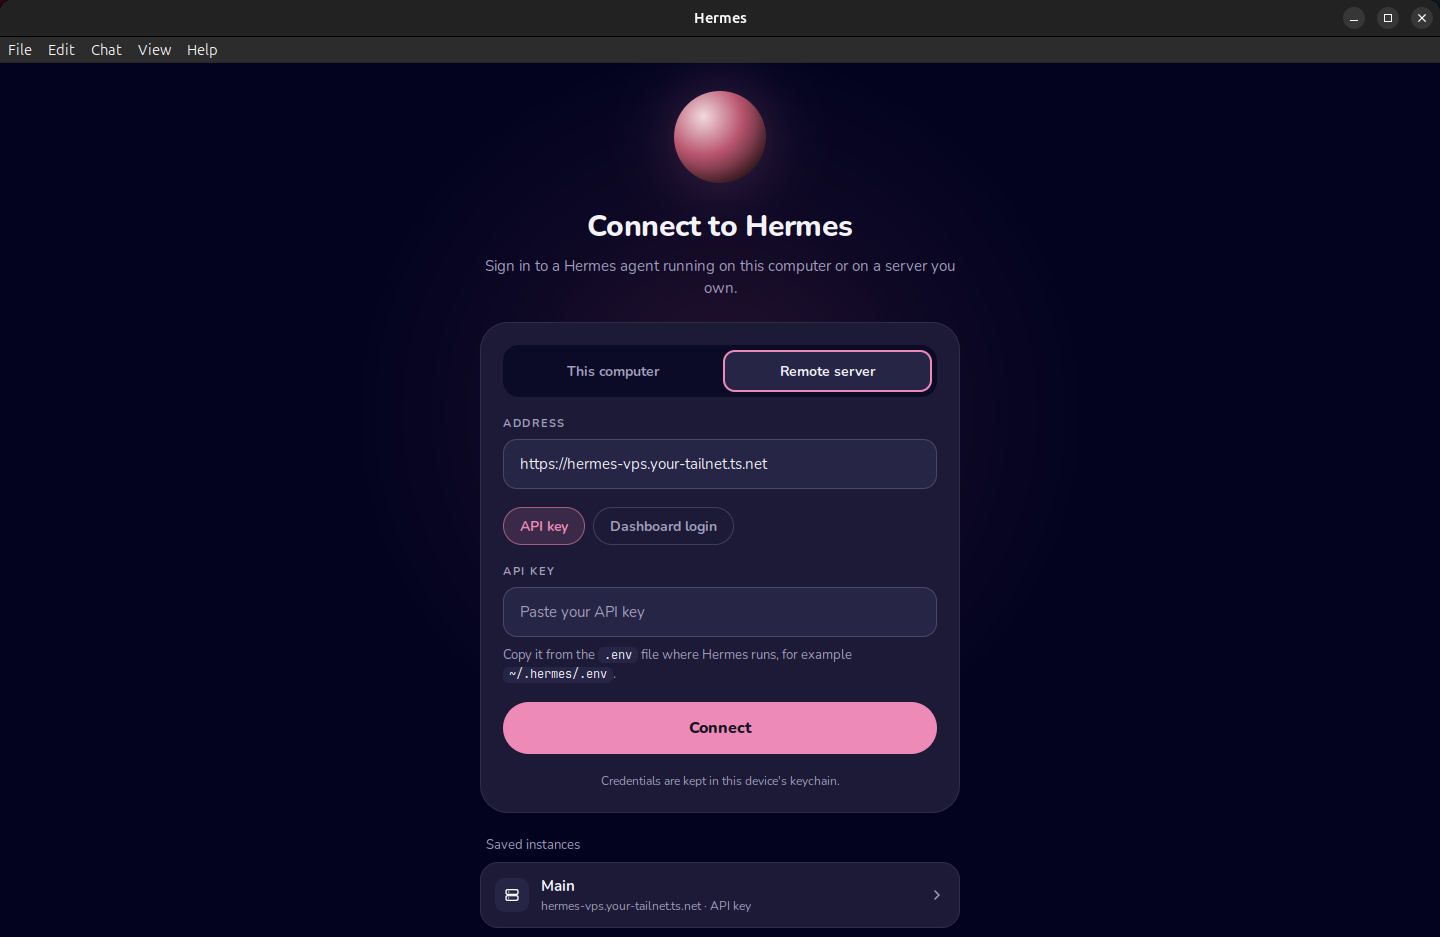
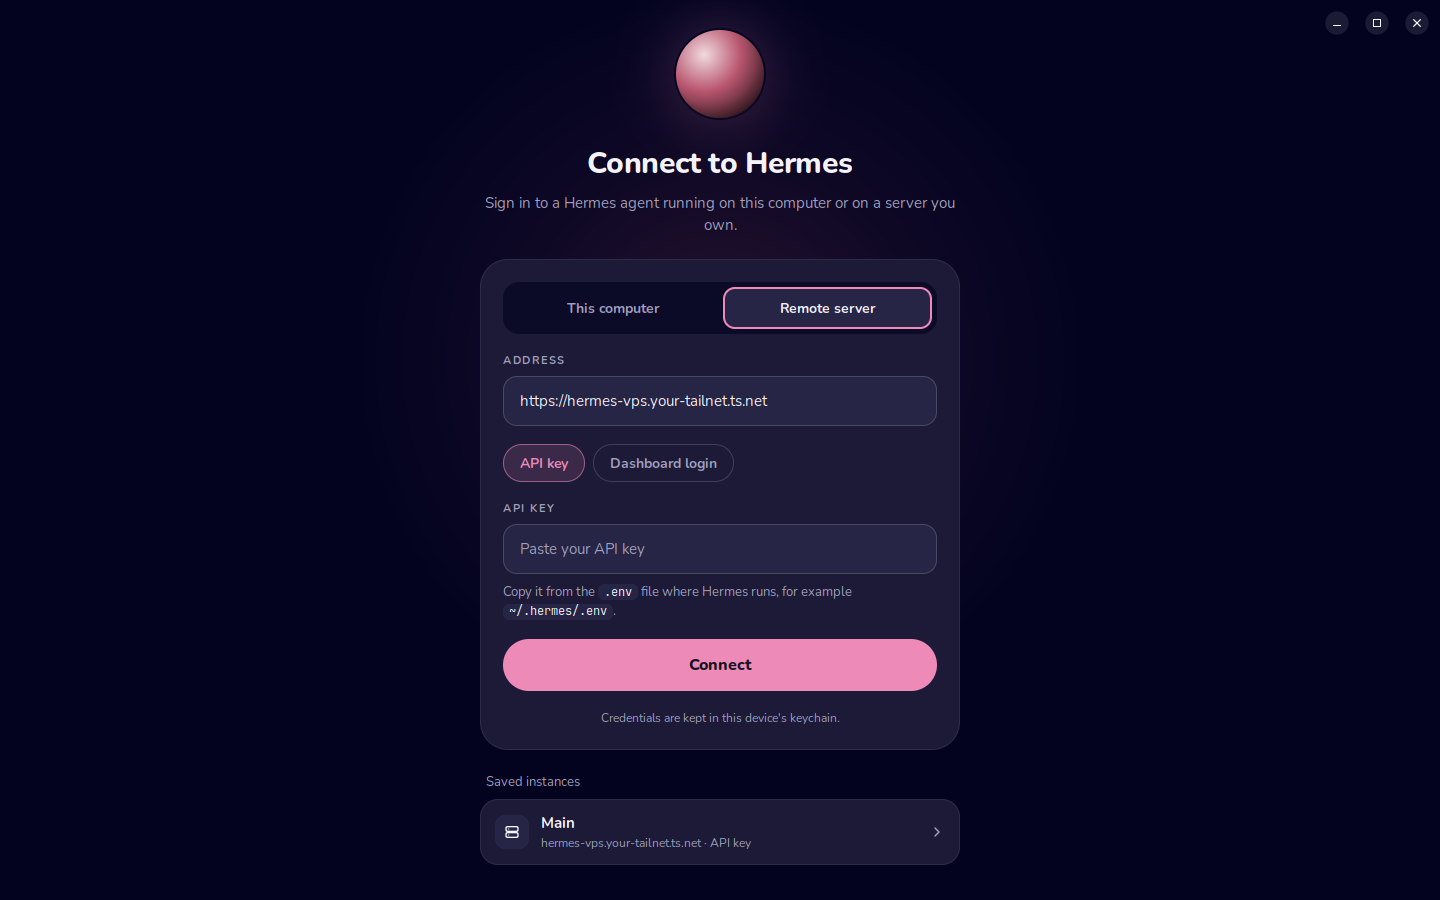
Draw the title bar on Linux and Windows too; hide the menu bar
The window menu bar under the system title bar was a second, unthemed
strip the design does not have. Linux and Windows now use a hidden title
bar, as macOS does: the app's header and sidebar row are the title bar,
the system's window buttons sit in it, and the menus open with Alt or F10
(their shortcuts work all along). Fonts now register one by one, so one
failure no longer drops the rest. README screenshots retaken on GNOME.

Changed region(s): [[0.0, 0.0, 1.0, 0.9956]]

diff --git a/internal/views/settingsview.go b/internal/views/settingsview.go
@@ -26,7 +26,8 @@ var settingsPanes = []struct{ name, icon string }{
 func (u *UI) settingsView(c *ui.Context) {
 	pal := &u.pal
 	ui.Column(c).Fill().Background(pal.Bg).Children(func() {
-		ui.Row(c).Height(56).FillWidth().Padding(0, 22).AlignItems(ui.Center).BorderWidth(0, 0, 1, 0).BorderColor(pal.Line).DragWindow().Children(func() {
+		bar := c.TitleBar()
+		ui.Row(c).Height(max(56, bar.Height)).FillWidth().Padding(0, max(22, bar.Right+12), 0, max(22, bar.Left+12)).AlignItems(ui.Center).BorderWidth(0, 0, 1, 0).BorderColor(pal.Line).DragWindow().Children(func() {
 			ui.Text(c, "Settings").FontSize(14).FontWeight(700).TextColor(pal.Muted).Grow(1).TextAlign(ui.Center)
 		})
 		ui.Row(c).Grow(1).FillWidth().AlignItems(ui.Stretch).Children(func() {
@@ -515,6 +516,9 @@ func (u *UI) generalPane(c *ui.Context) {
 			u.SetSettings(n)
 		})
 		u.note(c, "Link cards in replies show the page's title, fetched once, without cookies.")
+		if u.Native != nil && u.Native.Platform() != "darwin" {
+			u.note(c, "Menus: press Alt or F10 to open File, Edit, Chat, View and Help.")
+		}
 		u.note(c, "Keyboard: ⌘/Ctrl+1–9 jumps to the chats in the sidebar (hold the key to see their numbers), ⌘/Ctrl+N starts a chat, ⌘/Ctrl+K searches, ⌘/Ctrl+, opens settings and Esc stops a running agent.")
 	}).FillWidth()
 }

diff --git a/internal/views/views_test.go b/internal/views/views_test.go
@@ -530,3 +530,25 @@ func TestF2RenamesOpenChat(t *testing.T) {
 	h.tt.Key(0, ui.KeyEnter)
 	h.settle("renamed", func() bool { r := h.srv.SessionRow(id); return r != nil && r["title"] == "Greetings" })
 }
+
+// With a hidden title bar the header is the title bar: its buttons keep
+// clear of the system's window buttons.
+func TestHeaderClearsWindowButtons(t *testing.T) {
+	h := newHarness(t, hermestest.Options{}, true)
+	h.synced()
+	h.tt.SetTitleBar(ui.TitleBar{Height: 40, Right: 130, Bottom: 40})
+	h.u.Select("20261122_060000_0a0b0c")
+	h.settle("chat", func() bool { return h.tt.HasText("Hey! What can I help with?") })
+	more, ok := h.tt.Access("More")
+	if !ok {
+		t.Fatal("the More button is labelled")
+	}
+	if right := more.Bounds.X + more.Bounds.W; right > 1440-130 {
+		t.Fatalf("More ends at %v, under the window buttons (from %v)", right, 1440-130)
+	}
+	h.u.Screen = ScreenSettings
+	h.tt.Frame()
+	if !h.tt.HasText("Settings") {
+		t.Fatal("settings title bar")
+	}
+}

diff --git a/internal/views/chat.go b/internal/views/chat.go
@@ -230,7 +230,10 @@ func (u *UI) chatView(c *ui.Context, conn *core.Connection, ch *core.Chat) {
 
 func (u *UI) chatHeader(c *ui.Context, conn *core.Connection, ch *core.Chat, s hermes.Session, prof hermes.Profile) {
 	pal := &u.pal
-	ui.Grid(c).ColumnTracks(ui.Fr(1), ui.FitContent(), ui.Fr(1)).AlignItems(ui.Center).Padding(14, 20, 6, 20).DragWindow().Children(func() {
+	// The header is the window's title bar: it drags the window and keeps
+	// clear of the system's window buttons (top right on Linux and Windows).
+	bar := c.TitleBar()
+	ui.Grid(c).ColumnTracks(ui.Fr(1), ui.FitContent(), ui.Fr(1)).AlignItems(ui.Center).Padding(14, max(20, bar.Right+12), 6, 20).DragWindow().Children(func() {
 		ui.Box(c)
 		pill := ui.Row(c).Gap(10).Padding(7, 18, 7, 8).Radius(999).Background(pal.Surf).Border(1, pal.Line).
 			Shadow(0, 8, 24, 0, ui.RGBA(0, 0, 0, 0.25)).AlignItems(ui.Center).MaxWidth(520).MinWidth(0)

diff --git a/internal/theme/fonts.go b/internal/theme/fonts.go
@@ -2,6 +2,7 @@ package theme
 
 import (
 	"embed"
+	"errors"
 	"fmt"
 	"strings"
 	"sync"
@@ -24,22 +25,24 @@ func RegisterFonts() error {
 			registerErr = err
 			return
 		}
+		// Each face on its own: one that fails leaves the others in use.
+		var errs []error
 		for _, e := range entries {
 			name := e.Name()
 			data, err := fontFiles.ReadFile("fonts/" + name)
 			if err != nil {
-				registerErr = err
-				return
+				errs = append(errs, err)
+				continue
 			}
 			family := "Nunito"
 			if strings.HasPrefix(name, "JetBrainsMono") {
 				family = "JetBrains Mono"
 			}
 			if err := ui.RegisterFont(data, family); err != nil {
-				registerErr = fmt.Errorf("register %s: %w", name, err)
-				return
+				errs = append(errs, fmt.Errorf("register %s: %w", name, err))
 			}
 		}
+		registerErr = errors.Join(errs...)
 	})
 	return registerErr
 }

diff --git a/internal/views/sidebar.go b/internal/views/sidebar.go
@@ -215,7 +215,10 @@ func (u *UI) sidebarView(c *ui.Context, conn *core.Connection) {
 	}
 	side.Children(func() {
 		// Title row: room for the traffic lights on macOS, then the buttons.
-		top := ui.Row(c).Height(44).Padding(0, 4).AlignItems(ui.Center).DragWindow()
+		// Room for window buttons on the left (macOS's traffic lights, or a
+		// Linux desktop that puts them there); the row drags the window.
+		bar := c.TitleBar()
+		top := ui.Row(c).Height(max(44, bar.Bottom-14+8)).Padding(0, 4, 0, max(4, bar.Left-14)).AlignItems(ui.Center).DragWindow()
 		top.Children(func() {
 			ui.Spacer(c)
 			ui.Row(c).Gap(8).Children(func() {

diff --git a/cmd/hermes-desktop/main.go b/cmd/hermes-desktop/main.go
@@ -204,6 +204,12 @@ func main() {
 			if s.TranslucentSidebar {
 				opts.Vibrancy = mygo.VibrancySidebar
 			}
+		} else {
+			// The app draws its own title bar, as the design does, with the
+			// system's window buttons in it. The menu bar stays a real one
+			// but hides: Alt or F10 opens it (Linux), or its menus in a popup
+			// (Windows), and its shortcuts work all along.
+			opts.TitleBarStyle = mygo.TitleBarHidden
 		}
 		// Windows shows a material only in a window created with one, and
 		// such a window has no menu bar (Alt or F10 opens the menus): so

diff --git a/docs/design-comparison.md b/docs/design-comparison.md
@@ -39,7 +39,7 @@ Full-size: `screenshots/before/`, `screenshots/after/` (and
 
 | Difference | Why |
 |---|---|
-| A menu bar on Linux (and Windows) where the design shows macOS traffic lights | The brief asks for real window menus on Windows and Linux; macOS gets the hidden title bar with the traffic lights over the sidebar |
+| The system's window buttons (top right on Linux and Windows) where the design shows macOS traffic lights | Each platform keeps its own controls. Since the follow-up, Linux and Windows also draw their own title bar as the design does: the menu bar is hidden and opens with Alt or F10 |
 | The chat opens at its newest turn; the design shows the page scrolled to the top | A chat must show its latest message; the design is a static page (its own last row sits half under the composer) |
 | "127.0.0.1 · connected" for "hermes-vps · connected", times such as "now"/"0:04" for "4d"/"5:46", 18 tool pills in the expanded group for 4, row order of two running chats | Demo data from the fake instance, not the UI |
 | "Rounded · Default" for "SF Rounded · Default" | SF Rounded exists only on macOS, where the label says so; elsewhere the bundled Nunito is used |

diff --git a/README.md b/README.md
@@ -104,6 +104,9 @@ Instances** signs one in again or removes it.
   copy its ID or its `hermes --resume` command, export as Markdown, delete),
   a message (copy), a tool call (copy the command or its result), a link.
 - **Share** exports the open chat as Markdown.
+- **Menus.** On macOS they are in the menu bar at the top of the screen. On
+  Windows and Linux the app draws its own title bar, as on macOS, so its
+  menus stay out of sight until you press **Alt** or **F10**.
 - **Search** (**Ctrl/⌘+K**) finds chats by title at once, and by their text
   on your instance a moment later.
 - **Notifications.** With the window in the background, the app tells you
@@ -121,6 +124,7 @@ Instances** signs one in again or removes it.
 | Esc | Stop the agent (or close search, or leave settings) |
 | Enter / Shift+Enter | Send / new line |
 | ⌘⇧E | Export the chat as Markdown |
+| Alt or F10 (Windows, Linux) | Open the menus (File, Edit, Chat, View, Help) |
 | F2 | Rename (from a chat's menu) |
 
 ## Settings
